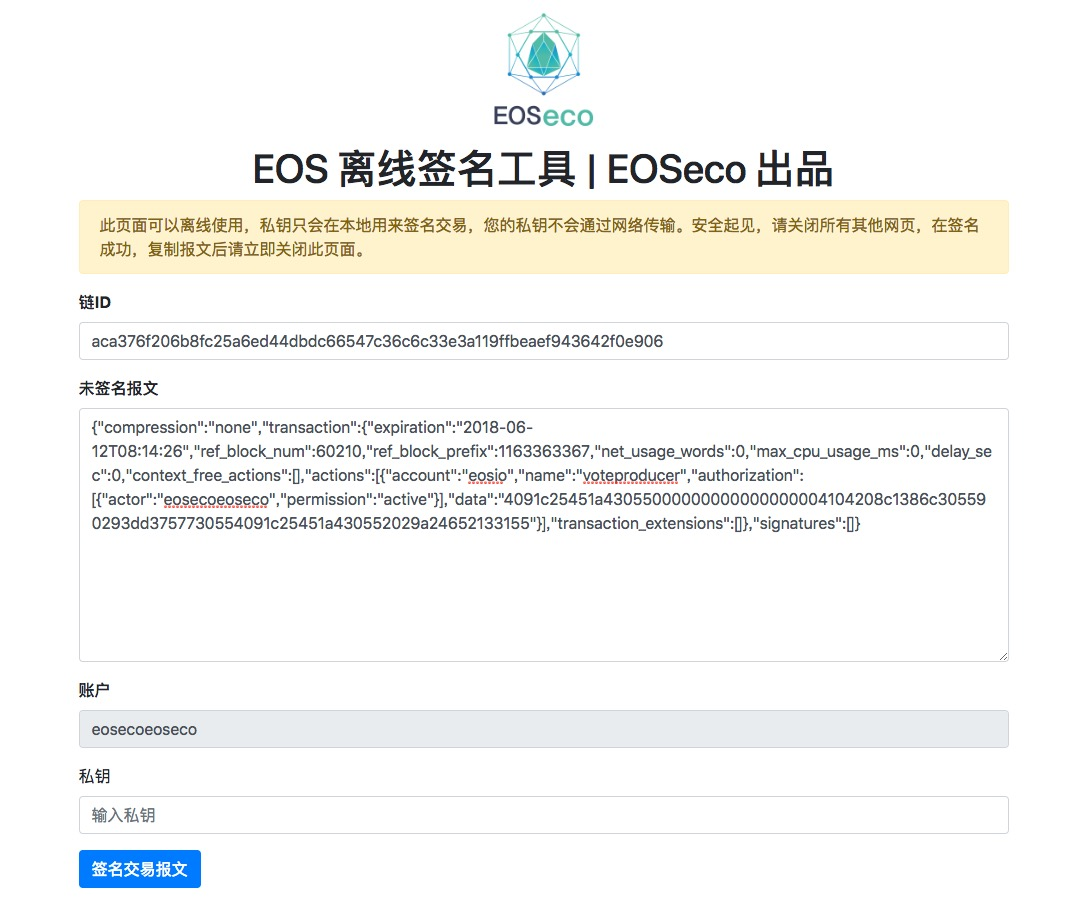
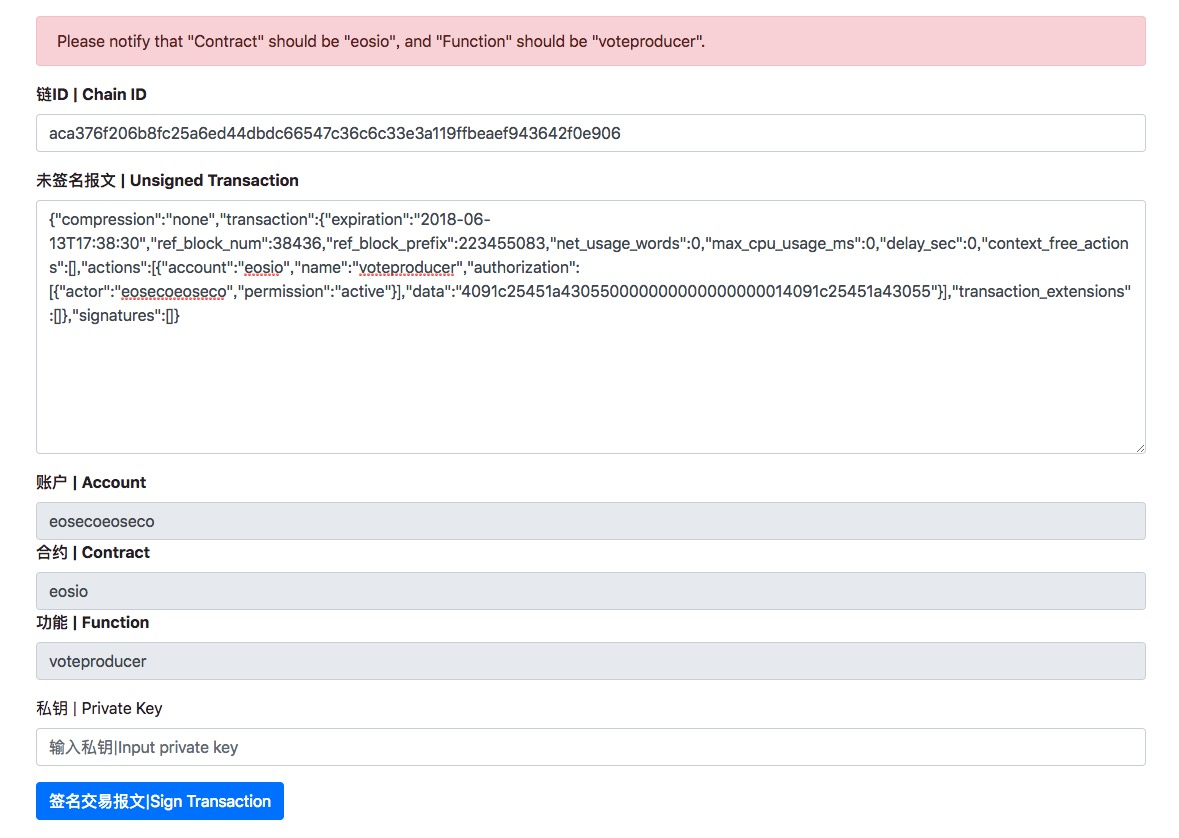
update readme

diff --git a/README.md b/README.md
@@ -12,6 +12,11 @@ EOS Offline Voting Tool can be use offline for safty reason.
 
 This step go online.
 
+如果你不知道你的EOS账户名，请访问：[映射查询](https://explorer.eoseco.com/snapshot)查询用户名。
+
+If you do not know your EOS account name , please go to [Snapshot query](https://explorer.eoseco.com/snapshot).
+
+
 访问 EOSeco区块链浏览器的投票界面：
 [EOSeco投票排行](https://explorer.eoseco.com/voting)
 
@@ -45,9 +50,9 @@ MD5:33b413d7f568dc1896a82d5bbb0ee114
 
 ![签名界面](resource/img/3.jpg)
 
-将第一步中生成的待签名交易报文复制进来，确认账户正确，然后输入私钥，点击签名交易报文。
+将第一步中生成的待签名交易报文复制进来，确认账户正确，**确保"合约“是 "eosio“，确保"功能“是 "voteproducer“**，然后输入私钥，点击签名交易报文。
 
-Paste unsigned transaction in step #1, make sure account name is right, then type in private key and click Sign Transaction.
+Paste unsigned transaction in step #1, make sure account name is right, **make sure "Contract" is "eosio" , make sure "Function" is "voteproducer"** , then type in private key and click Sign Transaction.
 
 ![签名界面](resource/img/4.jpg)
 
